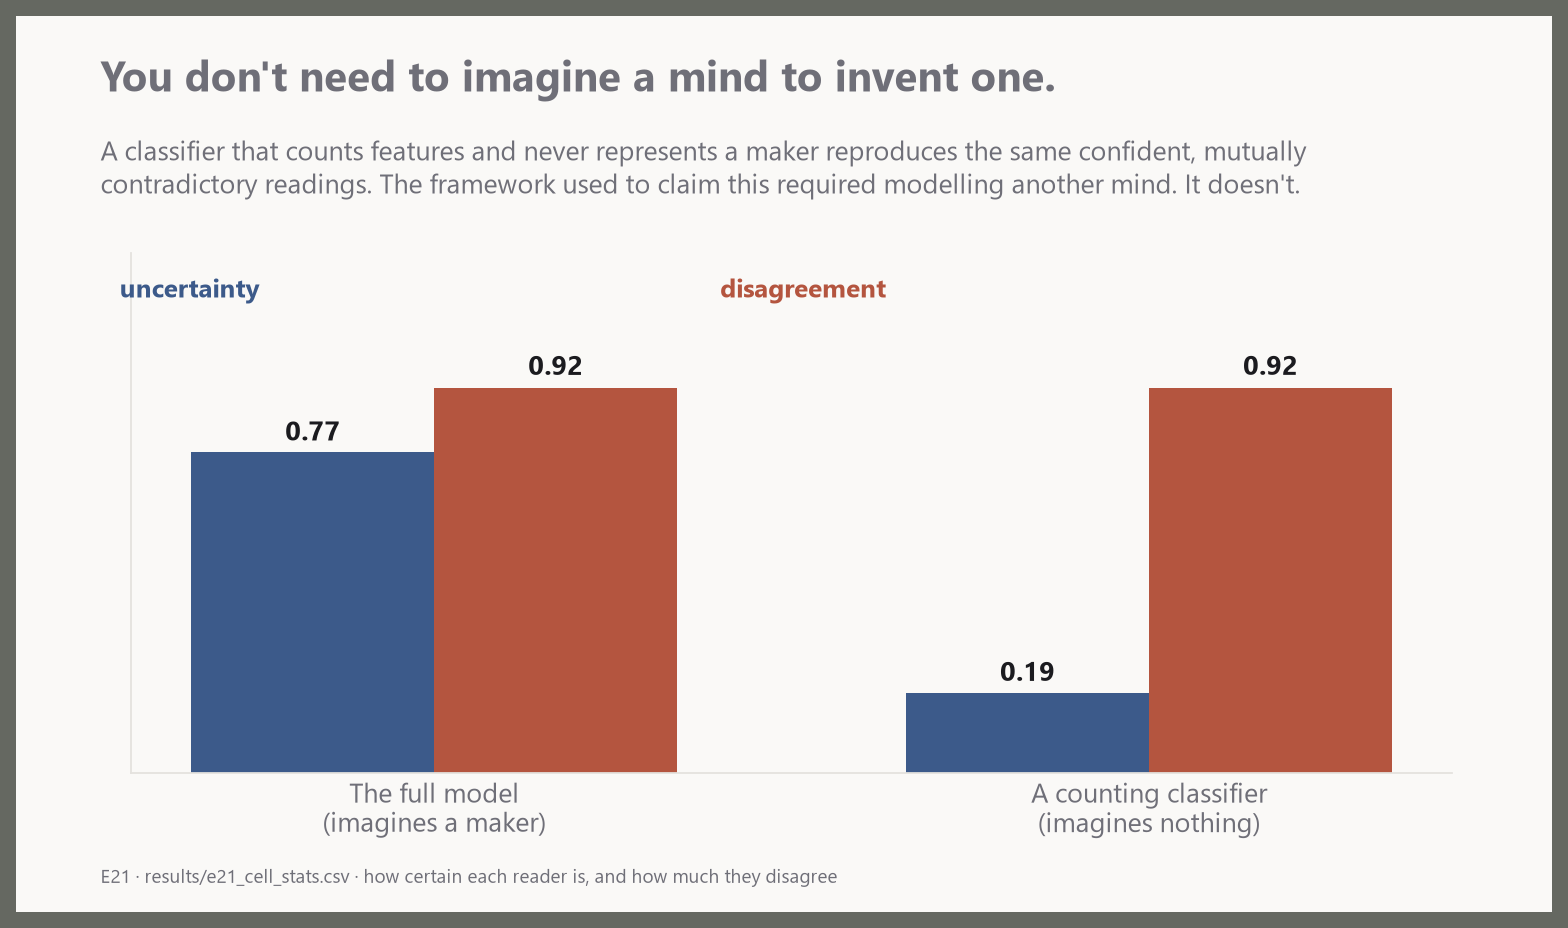
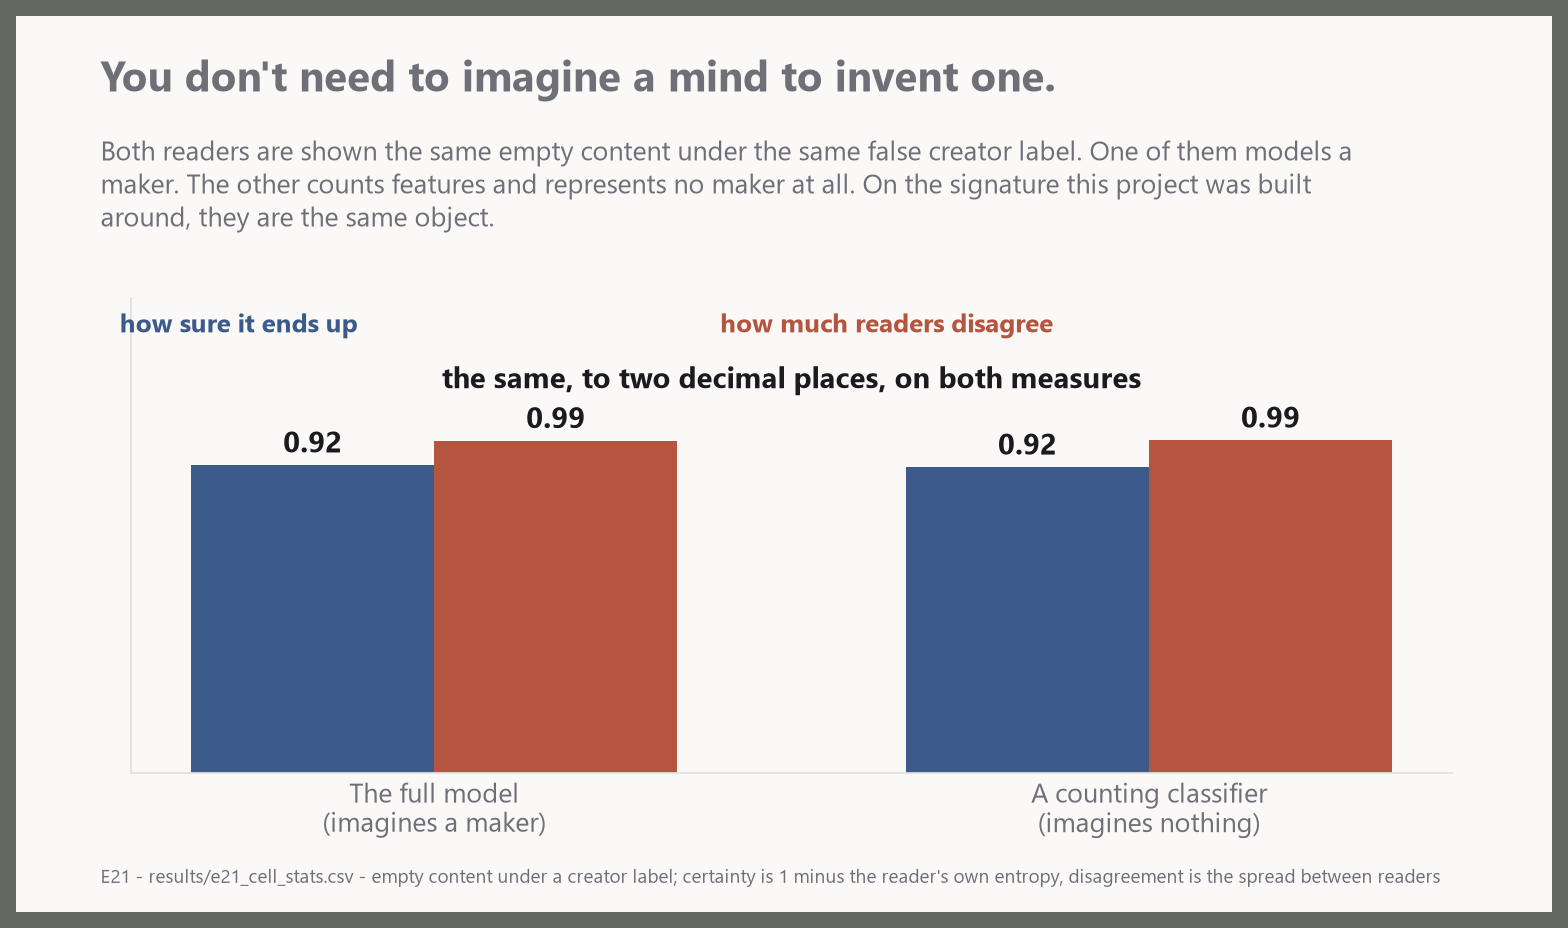
Three plates were charting the knob instead of the finding
18 was on a log axis, which turned 4-against-512 into a one-to-five gap. Linear
now, and the cheap reader is a hairline next to a tower.

20 put the leak parameter on its x-axis, so the bars could only say "a bigger
leak lets more through" while the real result floated above them as a caption.
Redrawn as the two readers at a fixed leak.

13 averaged across every content type and both labels, producing bars that
argued against its own title, and plotted entropy while calling it uncertainty.
Redrawn on the cell the withdrawn claim was actually about.

diff --git a/scripts/make_walkthrough_plates.py b/scripts/make_walkthrough_plates.py
@@ -533,39 +533,58 @@ def plate_12_two_damages():
 # 13 — a counting classifier does it too.
 # =========================================================================== #
 def plate_13_no_mind_needed():
+    """Redrawn twice over, because the first version was averaging away the finding.
+
+    It took the mean of every row for each arm -- across all three content types and all three
+    declared signals, including honestly-labelled human work where both readers sit at zero.
+    That produced 'uncertainty 0.77 against 0.19', which looks like a large DIFFERENCE between
+    the two readers and so argues against the plate's own title.
+
+    The claim being withdrawn is about one cell: empty content carrying a creator's label. In
+    that cell the two readers are the same object. It is also plotted as CERTAINTY now, because
+    the old plate drew entropy and called it uncertainty, so a shorter bar meant a more confident
+    reader and every instinct the eye has was pointing backwards.
+    """
     df = pd.read_csv(R / "e21_cell_stats.csv")
-    col = "within_observer" if "within_observer" in df.columns else df.columns[2]
-    between = "between_observer" if "between_observer" in df.columns else df.columns[3]
-    arms = df[df.get("cell", df.columns[1]).astype(str).str.contains("ghost|GHOST|claimed",
-                                                                     case=False, na=False)] \
-        if "cell" in df.columns else df
-    full = df[df.arm.astype(str).str.contains("A_active", na=False)]
-    naive = df[df.arm.astype(str).str.contains("E_no_tom", na=False)]
+    cell = df[(df.content == "goal_empty") & (df.declared_signal == "SIG_CREATOR")]
+    full = cell[cell.arm.astype(str).str.startswith("A_active")]
+    # The counter at its most resolved. The claim under test is that NO reader without a
+    # maker-model can produce this signature, so one that does is enough to withdraw it.
+    counters = cell[cell.arm.astype(str).str.startswith("E_no_tom")]
+    naive = counters.loc[[counters.within_observer.idxmin()]]
     if not len(full) or not len(naive):
         return
-    vals = [float(full[col].mean()), float(naive[col].mean())]
-    dis = [float(full[between].mean()), float(naive[between].mean())]
+
+    hmax = float(np.log(4))       # four goal states, so this is 'no idea at all'
+    certain = [1 - float(full.within_observer.iloc[0]) / hmax,
+               1 - float(naive.within_observer.iloc[0]) / hmax]
+    dis = [float(full.between_observer.iloc[0]) / hmax,
+           float(naive.between_observer.iloc[0]) / hmax]
 
     fig, ax = plate(
         "You don't need to imagine a mind to invent one.",
-        "A classifier that counts features and never represents a maker reproduces the same "
-        "confident, mutually contradictory readings. The framework used to claim this required "
-        "modelling another mind. It doesn't.",
-        "E21 · results/e21_cell_stats.csv · how certain each reader is, and how much they disagree")
+        "Both readers are shown the same empty content under the same false creator label. One "
+        "of them models a maker. The other counts features and represents no maker at all. On "
+        "the signature this project was built around, they are the same object.",
+        "E21 - results/e21_cell_stats.csv - empty content under a creator label; certainty is "
+        "1 minus the reader's own entropy, disagreement is the spread between readers")
     xs = np.arange(2)
     w = 0.34
-    b1 = ax.bar(xs - w / 2, vals, width=w, color=COOL)
+    b1 = ax.bar(xs - w / 2, certain, width=w, color=COOL)
     b2 = ax.bar(xs + w / 2, dis, width=w, color=MACHINE)
     ax.set_xticks(xs)
     ax.set_xticklabels(["The full model\n(imagines a maker)",
                         "A counting classifier\n(imagines nothing)"], fontsize=12)
-    bar_labels(ax, b1, vals, fmt="{:.2f}", fontsize=12, color=INK)
-    bar_labels(ax, b2, dis, fmt="{:.2f}", fontsize=12, color=INK)
-    ax.set_ylim(0, max(dis) * 1.35)
+    bar_labels(ax, b1, certain, fmt="{:.2f}", fontsize=13, color=INK)
+    bar_labels(ax, b2, dis, fmt="{:.2f}", fontsize=13, color=INK)
+    ax.set_ylim(0, 1.42)
     clean_axis(ax)
     ax.set_yticks([])
-    annotate(ax, -0.44, max(dis) * 1.22, "uncertainty", color=COOL, fontsize=11.5, weight="bold")
-    annotate(ax, 0.40, max(dis) * 1.22, "disagreement", color=MACHINE, fontsize=11.5, weight="bold")
+    annotate(ax, -0.44, 1.30, "how sure it ends up", color=COOL, fontsize=11.5, weight="bold")
+    annotate(ax, 0.40, 1.30, "how much readers disagree", color=MACHINE, fontsize=11.5,
+             weight="bold")
+    annotate(ax, 0.5, 1.13, "the same, to two decimal places, on both measures",
+             color=INK, ha="center", fontsize=13, weight="bold")
     record(save(fig, "13_no_mind_needed"),
            "A claim this project withdrew, using its own experiment. Kept prominently on purpose.")
 
@@ -713,17 +732,20 @@ def plate_18_what_tom_buys():
         "One already owns the machinery and only has to ask which intention is running. The other "
         "has to learn the whole map from scratch.",
         "E45 - results/v7/e45_tom_efficiency.json - examples needed to reach 80% accuracy")
+    # LINEAR, deliberately. This was drawn on a log axis and the log axis was lying by being
+    # tidy: 4 against 512 came out looking like a one-to-five difference, which is the single
+    # most understated number in the project. On a linear axis the cheap reader is a sliver,
+    # and the sliver IS the finding.
     bars = ax.bar(["Simulates the maker", "Counts what it has seen"], [sim, cnt],
                   color=[HUMAN, MACHINE], width=0.5)
     for b, v in zip(bars, [sim, cnt]):
-        ax.text(b.get_x() + b.get_width() / 2, v * 1.08, str(int(v)), ha="center",
+        ax.text(b.get_x() + b.get_width() / 2, v + cnt * 0.035, str(int(v)), ha="center",
                 va="bottom", fontsize=20, fontweight="bold", color=INK)
-    ax.set_yscale("log")
-    ax.set_ylim(1, cnt * 6)
-    clean_axis(ax, "worked examples needed (log scale)")
+    ax.set_ylim(0, cnt * 1.34)
+    clean_axis(ax, "worked examples needed")
     ax.set_yticks([])
-    annotate(ax, 0.5, cnt * 2.2, str(int(cnt / max(sim, 1))) + "x less evidence",
-             color=HUMAN, ha="center", fontsize=15, weight="bold")
+    annotate(ax, 0, cnt * 0.30, str(int(cnt / max(sim, 1))) + "x less evidence\nto read intent "
+             "just as well", color=HUMAN, ha="center", fontsize=15, weight="bold")
     record(save(fig, "18_what_imagining_a_maker_buys"),
            "The experiment that made this project withdraw a claim asked whether you NEED to "
            "imagine a maker. You do not. It never asked what imagining one buys.")
@@ -767,31 +789,39 @@ def plate_19_zero_shot():
 # 20 - rejection is not protection.
 # =========================================================================== #
 def plate_20_rejection_is_not_protection():
+    """Redrawn, because the first version charted the knob and annotated the result.
+
+    The old plate's x-axis was how leaky I had set the guard, which is a parameter I chose, so
+    the bars could only ever say 'a bigger leak lets more through'. The finding was the caption
+    floating above them. Now the finding is the bars: two readers, the same leak, and the one
+    who works hardest at refusing is the one who moves most.
+    """
     d = load("v7/e46_gate_leak.json")
+    eng = d["engagement"]
+    skim, close = float(eng["skims_it"]), float(eng["reads_it_closely"])
     by = d["drift_by_leak"]
-    ks = sorted(by, key=lambda k: float(k))
-    drift = [float(by[k]["final_drift"]) for k in ks]
+    perfect = float(by["0.0"]["final_drift"])
 
     fig, ax = plate(
         "You cannot read something, reject it, and walk away unchanged.",
-        "To decide you disagree with something you first have to work out what it says, and "
-        "working out what it says means partly running it. Refusing is itself a small act of "
-        "taking on, and it compounds.",
-        "E46 - results/v7/e46_gate_leak.json - drift in a reader's own beliefs after repeatedly "
-        "rejecting everything it was shown")
-    labels = [f"{float(k):.0%}" for k in ks]
-    bars = ax.bar(labels, drift,
-                  color=[NEUTRAL if float(k) == 0 else MACHINE for k in ks], width=0.55)
-    bar_labels(ax, bars, drift, fmt="{:.3f}", fontsize=12.5, color=INK)
-    ax.set_ylim(0, max(drift) * 1.45)
-    clean_axis(ax, "how far the reader moved", "how leaky the guard is")
+        "Two readers, both refusing everything they are shown. To decide you disagree with "
+        "something you first have to work out what it says, and working out what it says means "
+        "partly running it. Refusing is itself a small act of taking on, and it compounds.",
+        "E46 - results/v7/e46_gate_leak.json - how far a reader's own beliefs moved after "
+        "repeatedly rejecting everything, at a fixed 10% leak")
+    bars = ax.bar(["Skims it\n(two looks)", "Studies it closely\nto refute it (sixteen looks)"],
+                  [skim, close], color=[NEUTRAL, MACHINE], width=0.5)
+    bar_labels(ax, bars, [skim, close], fmt="{:.3f}", fontsize=15, color=INK)
+    ax.set_ylim(0, close * 1.42)
+    clean_axis(ax, "how far the reader moved")
     ax.set_yticks([])
-    eng = d.get("engagement", {})
-    if eng.get("ratio"):
-        annotate(ax, (len(ks) - 1) / 2.0, max(drift) * 1.24,
-                 "and the reader who studies it carefully to refute it\n"
-                 "drifts " + str(int(round(eng["ratio"]))) + "x more than the one who skims",
-                 color=MACHINE, ha="center", fontsize=12.5, weight="bold")
+    annotate(ax, 1, close * 1.16,
+             str(int(round(eng["ratio"]))) + "x further from where it started",
+             color=MACHINE, ha="center", fontsize=14, weight="bold")
+    annotate(ax, -0.42, close * 1.30,
+             "Seal the guard completely and the drift does go to "
+             f"{perfect:.5f}.\nNo version of this reader after version 5 has a guard that seals.",
+             color=MUTED, ha="left", fontsize=11, va="top")
     record(save(fig, "20_rejection_is_not_protection"),
            "The theory always contained this term and the code never did. It is the proposed "
            "mechanism for indoctrination: you are changed by what you refuse.")

diff --git a/WALKTHROUGH.md b/WALKTHROUGH.md
@@ -172,8 +172,11 @@ require a reader that models the maker as a mind. That is false, and the experim
 is in this repository.**
 
 A classifier that counts features and never represents a maker reproduces the pattern, through
-nothing more than small-sample overfitting. What it *cannot* do is respond to a label, or keep
-paying attention to something it cannot resolve — and those are the two the framework now rests on.
+nothing more than small-sample overfitting. On empty content carrying a creator's label the two
+readers end up **0.92 certain against 0.92, disagreeing 0.99 against 0.99** — the same object, to
+two decimal places, on both halves of the signature. What the counter *cannot* do is respond to a
+label, or keep paying attention to something it cannot resolve, and those are the two the framework
+now rests on.
 
 ### 14. A knee, not a cliff
 
@@ -244,8 +247,13 @@ To decide you disagree with something, you first have to work out what it says. 
 says means partly running it. So refusing is itself a small act of taking on, and it compounds.
 
 The theory always contained this term; the code never did. And the second half is worse than the
-first: **the reader who studies it carefully in order to refute it drifts seven times more than the
-one who skims.**
+first, which is why it is now the picture rather than a caption on it: **the reader who studies it
+carefully in order to refute it drifts seven times more than the one who skims** — same content,
+same guard, eight times the looking. The effort you spend disagreeing is the channel.
+
+Seal the guard completely and the drift really does fall to 0.00002. No version of this reader
+after version 5 has a guard that seals, because version 6 replaced the binary gate with a sigmoid,
+and a sigmoid never reaches zero.
 
 ### 21. A disagreement that turned out to be a measurement error
 
